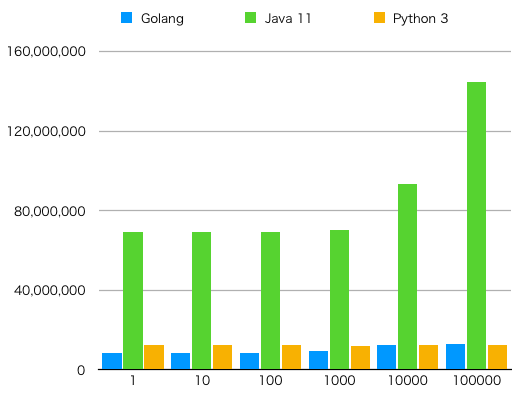
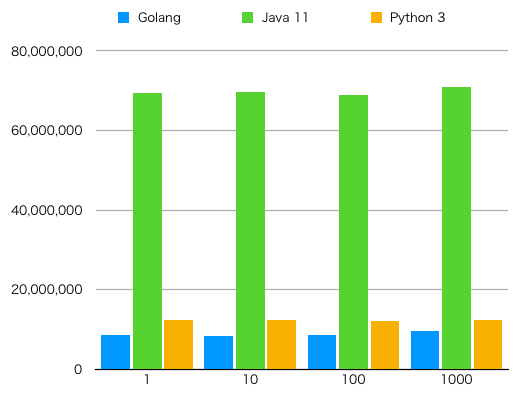
add gap_ms parameter (python=1, other=0) and rerun benchmarks

diff --git a/python3/bench.py b/python3/bench.py
@@ -27,9 +27,11 @@ class Client:
         self.n_publish = 0
         self.n_receives = 0
         self.done = False
+        self.gap_ms = 1
 
-    def bench(self, n_publish):
+    def bench(self, n_publish, gap_ms):
         self.n_publish = n_publish
+        self.gap_ms = gap_ms
         self.client.on_subscribe = self.on_subscribe
         self.client.on_message = self.on_message
         self.client.on_disconnect = self.on_disconnect
@@ -38,7 +40,6 @@ class Client:
         self.client.loop_start()
         while self.n_receives < self.n_publish:
             time.sleep(0.1)
-            pass
         self.client.unsubscribe(self.LOAD_TOPIC)
         self.client.loop_stop()
         print("[BENCH] done. %d messages received." % self.n_receives)
@@ -47,7 +48,7 @@ class Client:
 
     def on_subscribe(self, client, _userdata, _mid, _granted_qos):
         print("[BENCH] subscribe " + self.LOAD_TOPIC)
-        client.publish(self.CMD_TOPIC, """{"n_publish":%d}""" % self.n_publish)
+        client.publish(self.CMD_TOPIC, """{"n_publish":%d, "gap_ms":%d}""" % (self.n_publish, self.gap_ms))
         print("[BENCH] loading...")
 
     def on_message(self, _client, _userdata, _msg):
@@ -64,9 +65,10 @@ def main():
     parser.add_argument("-host", type=str, default="localhost", help="MQTT broker host name")
     parser.add_argument("-port", type=int, default=1883, help="MQTT broker port number")
     parser.add_argument("-n", type=int, default=1000, help="Number of publishes")
+    parser.add_argument("-gap", type=int, default=1, help="Gap time between publishes as milliseconds")
     args = parser.parse_args()
     client = Client(args.host, args.port)
-    client.bench(args.n)
+    client.bench(args.n, args.gap)
 
 
 if __name__ == '__main__':

diff --git a/golang/client.go b/golang/client.go
@@ -23,7 +23,8 @@ type Client struct {
 }
 
 type cmdMessage struct {
-	NPublish int `json:"n_publish"`
+	NPublish        int `json:"n_publish"`
+	GapMilliseconds int `json:"gap_ms"`
 }
 
 // NewClient will creates MQTT client instance.
@@ -71,25 +72,27 @@ func handleLoad(client mqtt.Client, msg mqtt.Message) {
 	if err := json.Unmarshal(msg.Payload(), &cmd); err != nil {
 		log.Printf("failed to parse cmd message: %v", err)
 	}
-	log.Printf("%s received. n=%d", cmdTopic, cmd.NPublish)
+	log.Printf("%s received. n=%d gap=%d", cmdTopic, cmd.NPublish, cmd.GapMilliseconds)
 	for i := 0; i < cmd.NPublish; i++ {
-		time.Sleep(1 * time.Millisecond)
 		payload := fmt.Sprintf(`{"count":%d}`, i+1)
 		if token := client.Publish(loadTopic, 1, false, payload); token.Wait() && token.Error() != nil {
 			log.Printf("failed to publish %s: %v", loadTopic, token.Error())
+		}
+		if cmd.GapMilliseconds > 0 {
+			time.Sleep(time.Duration(cmd.GapMilliseconds) * time.Millisecond)
 		}
 	}
 }
 
 // Bench sends message to loader and receives traffic.
-func (c *Client) Bench(nPublish int) error {
+func (c *Client) Bench(nPublish, gapMilliseconds int) error {
 	c.receives = make(chan struct{}, nPublish)
 	c.nPublish = nPublish
 	if token := c.client.Subscribe(loadTopic, 1, c.handleBench); token.Wait() && token.Error() != nil {
 		return fmt.Errorf("failed to subscribe %s: %v", loadTopic, token.Error())
 	}
 	log.Printf("subscribe %s", loadTopic)
-	payload, err := json.Marshal(cmdMessage{NPublish: nPublish})
+	payload, err := json.Marshal(cmdMessage{NPublish: nPublish, GapMilliseconds: 0})
 	if err != nil {
 		return fmt.Errorf("failed to build message: %v", err)
 	}

diff --git a/java11/src/main/java/com/github/mikan/bench/Client.java b/java11/src/main/java/com/github/mikan/bench/Client.java
@@ -35,14 +35,14 @@ class Client {
     /**
      * Sends start message to loader and receives traffic.
      *
-     * @param nPublish number of publishes
+     * @param nPublish        number of publishes
+     * @param gapMilliseconds gap time between publishes as milliseconds
      */
-    void Bench(int nPublish) {
+    void Bench(int nPublish, int gapMilliseconds) {
         var countDownLatch = new CountDownLatch(nPublish);
+        IMqttMessageListener handler = (topic, message) -> countDownLatch.countDown();
         try {
-            client.subscribeWithResponse(LOAD_TOPIC, 1, (topic, message) -> {
-                countDownLatch.countDown();
-            }).waitForCompletion();
+            client.subscribeWithResponse(LOAD_TOPIC, 1, handler).waitForCompletion();
             LOG.info("subscribe " + LOAD_TOPIC);
         } catch (MqttException e) {
             throw new RuntimeException("Failed to subscribe " + LOAD_TOPIC + ".", e);
@@ -51,6 +51,7 @@ class Client {
         try {
             var msg = new CommandMessage();
             msg.nPublish = nPublish;
+            msg.gapMilliseconds = gapMilliseconds;
             payload = new ObjectMapper().writeValueAsString(msg);
         } catch (JsonProcessingException e) {
             throw new RuntimeException("Failed to build command message.", e);
@@ -82,5 +83,8 @@ class Client {
     private static class CommandMessage {
         @JsonProperty("n_publish")
         private int nPublish;
+
+        @JsonProperty("gap_ms")
+        private int gapMilliseconds;
     }
 }

diff --git a/java11/src/main/java/com/github/mikan/bench/App.java b/java11/src/main/java/com/github/mikan/bench/App.java
@@ -11,9 +11,11 @@ public class App {
     public static void main(String[] args) {
         var broker = "localhost:1883";
         var nPublish = 1000;
+        var gapMilliseconds = 0;
         var options = new Options();
         options.addOption("broker", true, "MQTT broker url");
         options.addOption("n", true, "Number of publishes");
+        options.addOption("gap", true, "Gap time between publishes as milliseconds");
         var parser = new DefaultParser();
         try {
             var cl = parser.parse(options, args);
@@ -25,11 +27,18 @@ public class App {
                 System.err.println("invalid n: " + nPublishStr);
                 System.exit(2);
             }
+            var gapMillisecondsStr = cl.getOptionValue("gap", Integer.toString(gapMilliseconds));
+            try {
+                gapMilliseconds = Integer.parseInt(gapMillisecondsStr);
+            } catch (NumberFormatException e) {
+                System.err.println("invalid gap: " + gapMillisecondsStr);
+                System.exit(2);
+            }
         } catch (ParseException e) {
             System.err.println("invalid parameter: " + e.getMessage());
             System.exit(2);
         }
         var client = new Client(broker);
-        client.Bench(nPublish);
+        client.Bench(nPublish, gapMilliseconds);
     }
 }

diff --git a/golang/cmd/bench/main.go b/golang/cmd/bench/main.go
@@ -9,6 +9,7 @@ import (
 
 var broker = flag.String("broker", "localhost:1883", "MQTT broker url")
 var nPublish = flag.Int("n", 1000, "Number of publishes")
+var gapMilliseconds = flag.Int("gap", 0, "Gap time between publishes as milliseconds")
 
 func main() {
 	flag.Parse()
@@ -18,7 +19,7 @@ func main() {
 		log.Fatal(err)
 	}
 	defer client.Disconnect()
-	if err := client.Bench(*nPublish); err != nil {
+	if err := client.Bench(*nPublish, *gapMilliseconds); err != nil {
 		log.Fatal(err)
 	}
 }

diff --git a/README.md b/README.md
@@ -19,7 +19,7 @@ Compare MQTT client performance for Go, Java and Python.
 /usr/bin/time -lp <command> <n>
 ```
 
-Using `user` as time and `maximum resident set size` as memory usage.
+Using `real` as time and `maximum resident set size` as memory usage.
 
 ## Result
 
@@ -27,12 +27,12 @@ Memory usage (Unit: Bytes):
 
 | Volume | Golang   | Java 11   | Python 3 |
 | ------ | -------- | --------- | -------- |
-|      1 |  8368128 |  69263360 | 12496896 |
-|     10 |  8433664 |  69197824 | 12431360 |
-|    100 |  8527872 |  69111808 | 12386304 |
-|   1000 |  9490432 |  70500352 | 12242944 |
-|  10000 | 12742656 |  93679616 | 12480512 |
-| 100000 | 12918784 | 144687104 | 12320768 |
+|      1 |  8466432 |  69382144 | 12337152 |
+|     10 |  8396800 |  69713920 | 12210176 |
+|    100 |  8548352 |  68845568 | 12349440 |
+|   1000 |  9494528 |  70881280 | 12242944 |
+|  10000 | 12722176 |  94748672 | 12500992 |
+| 100000 | 13000704 | 145399808 | 12267520 |
 
 ![](mem.png)
 
@@ -40,12 +40,12 @@ Time spent (Unit: Seconds):
 
 | Volume | Golang | Java 11 | Python 3 |
 | ------ | ------ | ------- | -------- |
-|      1 |   0.01 |    1.26 |     0.11 |
-|     10 |   0.01 |    1.29 |     0.12 |
-|    100 |   0.02 |    1.35 |     0.14 |
-|   1000 |   0.16 |    1.78 |     0.42 |
-|  10000 |   1.61 |	   3.74 |     3.23 |
-| 100000 |  15.12 |	  14.39 |    30.48 |
+|      1 |   0.02 |    0.75 |     0.26 |
+|     10 |   0.02 |    0.77 |     0.26 |
+|    100 |   0.03 |    0.82 |     0.35 |
+|   1000 |   0.20 |    1.05 |     1.90 |
+|  10000 |   1.68 |	   2.20 |    17.89 |
+| 100000 |  17.01 |	  17.08 |   178.13 |
 
 ![](time.png)
 
